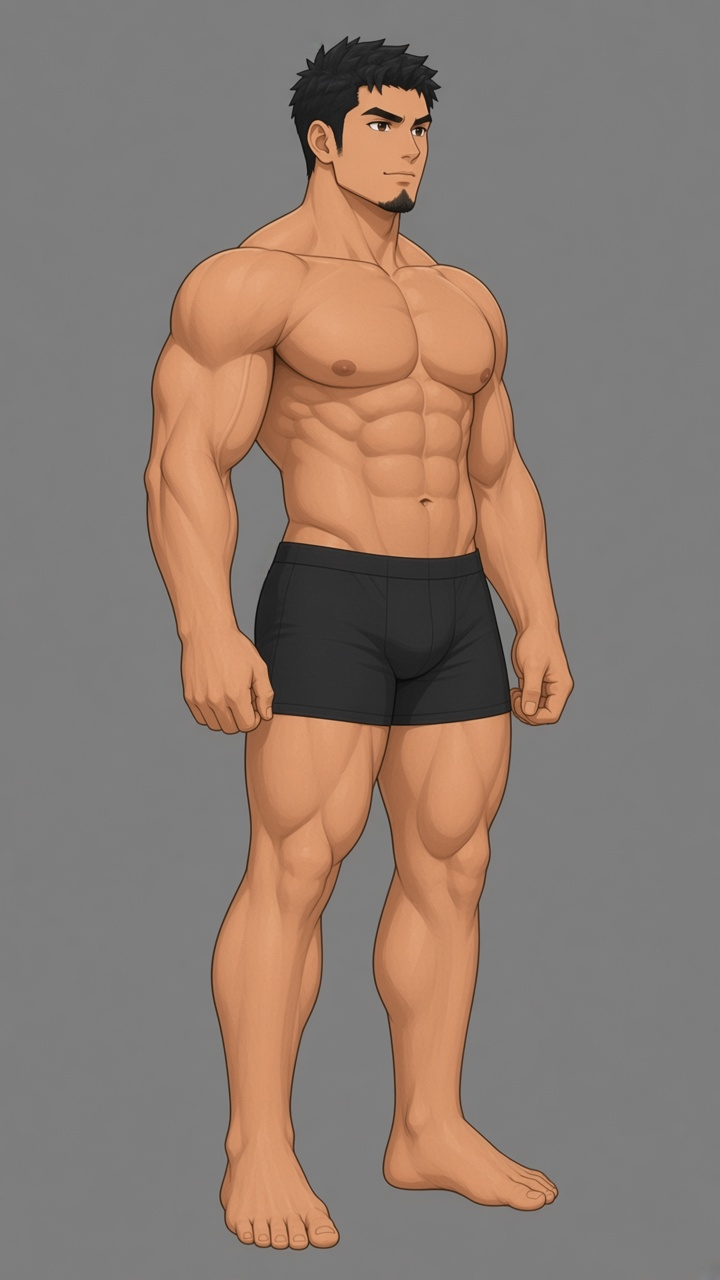
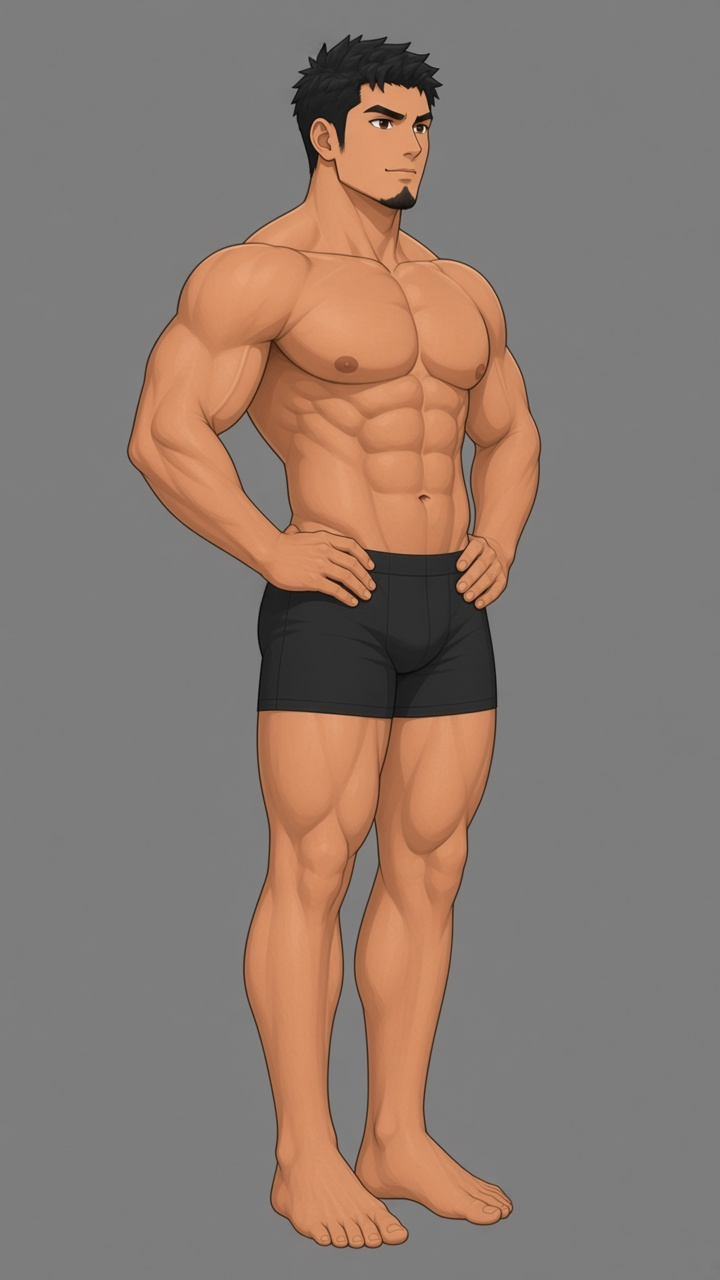
fix: 站姿 45 度改成并脚、双掌贴裤腰
平视左侧 45 度不变，两腿伸直并拢，掌心放在裤腰上。

diff --git a/人物设定图/设定说明.md b/人物设定图/设定说明.md
@@ -25,7 +25,7 @@
 - `左45.jpg`、`右45.jpg`：按这张正面出的左右 45 度，手臂仍平举
 - `顶视图.jpg`：从头顶往下看
 - `底视图.jpg`：从脚底往上看
-- `站姿左45.jpg`：标准站姿，手臂在身侧，平视的左侧 45 度
+- `站姿左45.jpg`：标准站姿，平视的左侧 45 度。两脚并直，双掌贴在裤腰上
 - `中景多视角.jpg`：中景焦距，对焦上身。正面、四分之三、侧面
 - `特写多视角.jpg`：特写焦距，对焦脸。正面、四分之三、侧面
 - `俯仰序列.jpg`：正面，从底部仰视到顶部俯视，每 10 度一张
